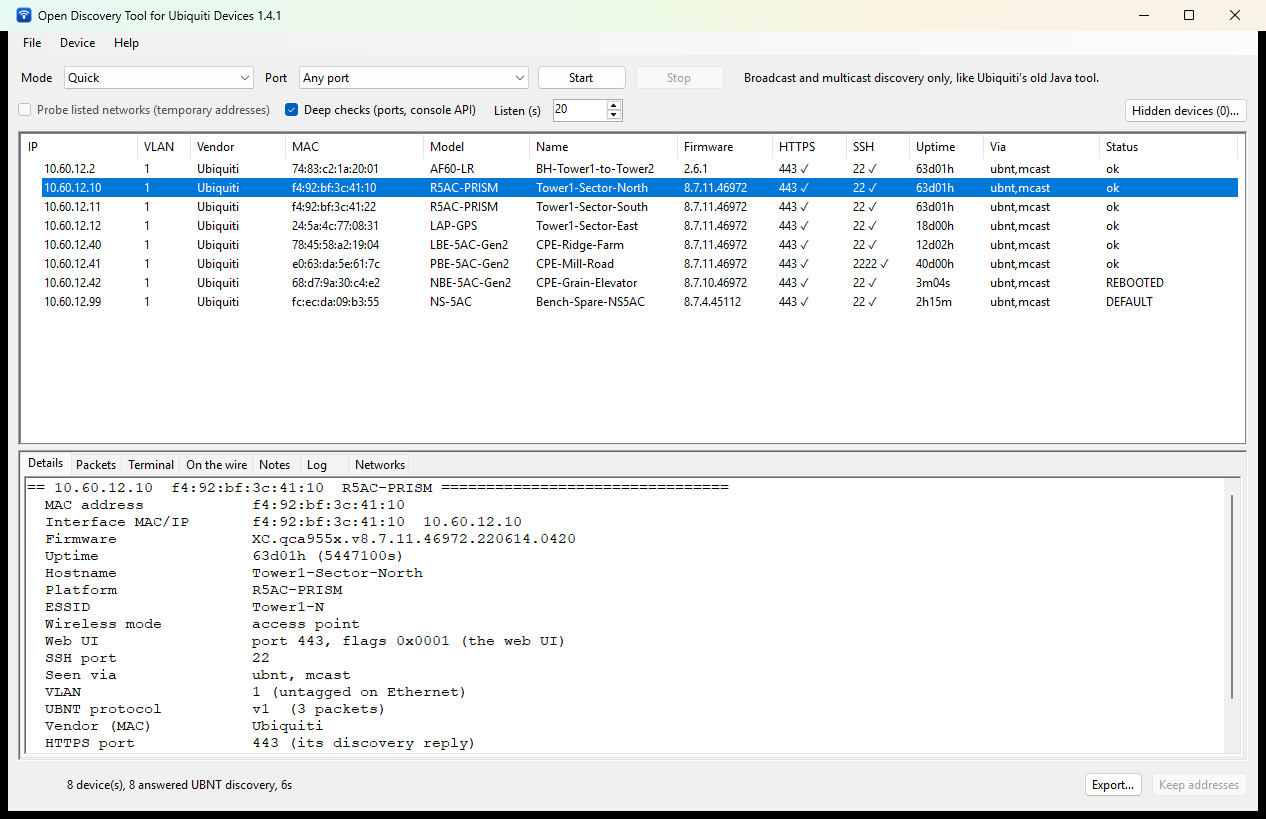
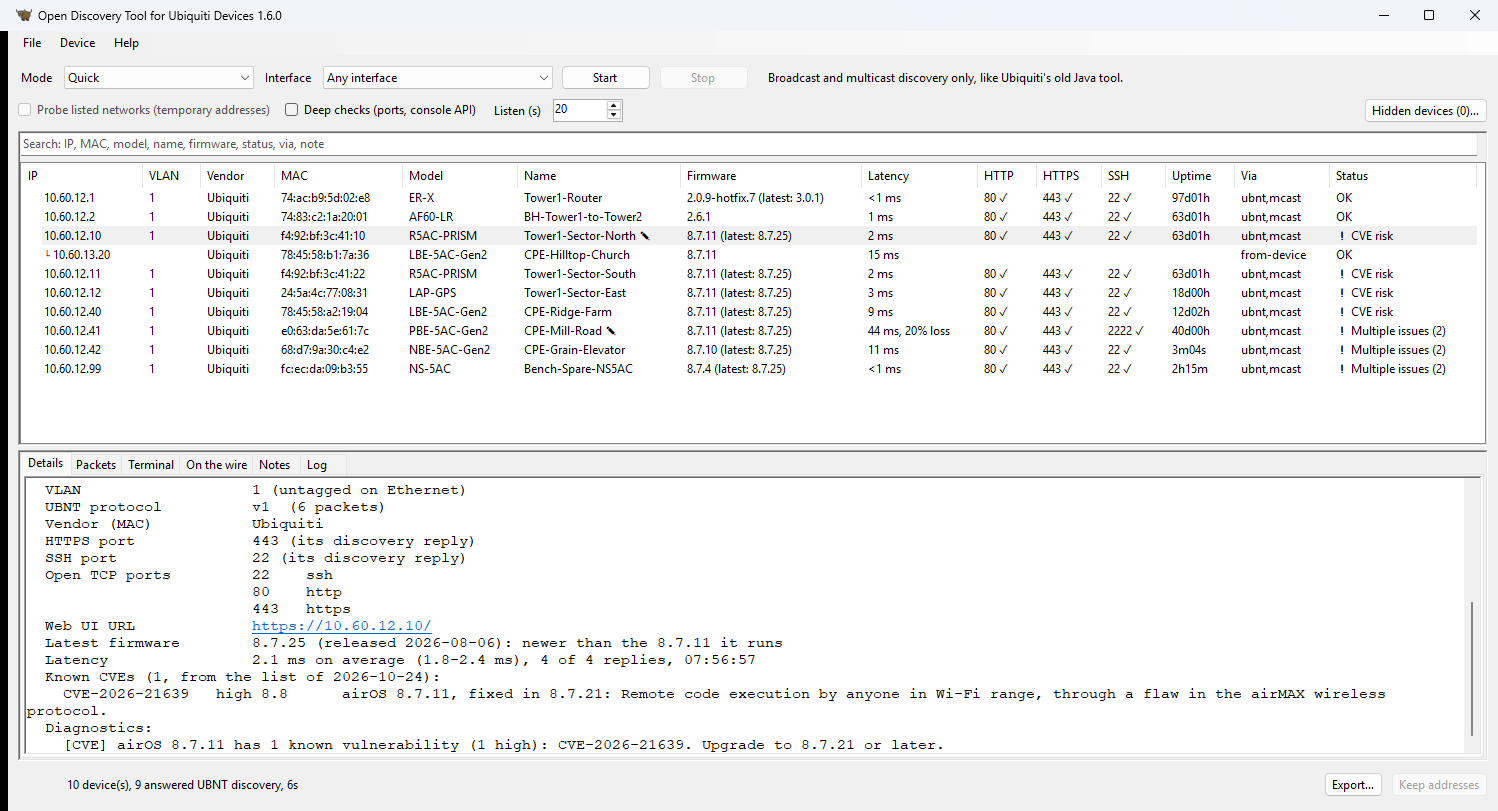
1.6.0: config backups and uploads, reboot, scan from an address, latest firmware and latency, search, notes, tablets
See CHANGELOG.md for the full list. README: the main window on macOS at the top, and a
Screenshots section for every platform (the right-click menu, search, config backups, Settings,
phones and tablets), all from the same made-up network (10.60.12.0/24); the 1.4.1 Windows picture
is replaced.

diff --git a/README.md b/README.md
@@ -4,10 +4,10 @@ One tool for finding and diagnosing Ubiquiti devices (UniFi, airMAX, EdgeMAX, UI
 and identifying other WISP gear. It combines the discovery methods of three Ubiquiti tools,
 merges what they find by MAC address, and checks each device for common problems.
 
-![OpenDisco 1.4.1 on Windows 11, listing eight sample radios](docs/images/windows-main.png)
+![OpenDisco 1.6.0 on macOS: ten devices with their firmware, latest release and latency, one radio's details below](docs/images/mac-main.png)
 
-*OpenDisco 1.4.1 on Windows 11. The eight radios are sample data with made-up names and
-addresses.*
+*OpenDisco 1.6.0 on macOS. The devices are sample data, a small WISP's tower with made-up
+names and addresses. More pictures under [Screenshots](#screenshots).*
 
 OpenDisco is an independent project. It isn't made, endorsed or supported by Ubiquiti Inc.
 Ubiquiti, UniFi, airMAX, EdgeMAX, UISP, AmpliFi and WiFiman are trademarks of Ubiquiti Inc.,
@@ -26,6 +26,75 @@ It comes two ways:
   with no public download yet.
 - **The command-line tool,** which needs only Python 3.8 or newer with no packages to
   install, and runs on macOS, Linux and Windows.
+
+## Screenshots
+
+Every picture shows OpenDisco 1.6.0 with the same sample data: made-up names and addresses.
+
+<table>
+<tr>
+<td width="50%"><img src="docs/images/mac-menu.png" alt="The right-click menu for one radio on macOS, listing the device tools"></td>
+<td width="50%"><img src="docs/images/windows-menu.png" alt="The same right-click menu on Windows 11"></td>
+</tr>
+<tr>
+<td>A device's right-click menu (macOS): its web UI, SSH, ping and latency, port finder,
+firmware, config backups and uploads, reboot, a note and its own export.</td>
+<td>The same menu on Windows 11.</td>
+</tr>
+<tr>
+<td><img src="docs/images/windows-main.png" alt="The main window on Windows 11"></td>
+<td><img src="docs/images/linux-main.png" alt="The main window on Ubuntu 24.04"></td>
+</tr>
+<tr>
+<td>Windows 11.</td>
+<td>Ubuntu 24.04.</td>
+</tr>
+<tr>
+<td><img src="docs/images/mac-search.png" alt="The device list searched for tower1, 5 of 10 devices shown"></td>
+<td><img src="docs/images/mac-backups.png" alt="Config backups for one radio: two copies, one of them shown"></td>
+</tr>
+<tr>
+<td>Search: "tower1" keeps 5 of the 10 devices.</td>
+<td>Config backups of one radio, kept by its MAC address, with Restore, Save a copy and Delete.</td>
+</tr>
+<tr>
+<td><img src="docs/images/mac-settings.png" alt="Settings: the checks made when opening and scanning, the subnets every scan sweeps, the networks list"></td>
+<td><img src="docs/images/linux-backups.png" alt="Config backups on Ubuntu 24.04"></td>
+</tr>
+<tr>
+<td>Settings: the update, CVE and firmware checks, the subnets every scan also sweeps, and the
+networks probed through temporary addresses.</td>
+<td>Config backups on Ubuntu 24.04.</td>
+</tr>
+</table>
+
+Phones and tablets ([On phones and tablets](#on-phones-and-tablets)):
+
+<table>
+<tr>
+<td><img src="docs/images/android-phone-list.png" width="200" alt="The device list on an Android phone"></td>
+<td><img src="docs/images/android-phone-tools.png" width="200" alt="A radio's Tools on an Android phone"></td>
+<td><img src="docs/images/iphone-list.png" width="200" alt="The device list on an iPhone"></td>
+<td><img src="docs/images/iphone-tools.png" width="200" alt="A radio's Tools on an iPhone"></td>
+</tr>
+<tr>
+<td>Android: the list, with each device's latency and newer firmware (↑).</td>
+<td>Android: a radio's Tools.</td>
+<td>iPhone (beta): the list.</td>
+<td>iPhone (beta): a radio's Tools.</td>
+</tr>
+</table>
+
+<table>
+<tr>
+<td width="50%"><img src="docs/images/android-tablet.png" alt="An Android tablet: the device list beside a radio's details"></td>
+<td width="50%"><img src="docs/images/ipad.png" alt="An iPad: the device list beside a radio's details"></td>
+</tr>
+<tr>
+<td>Android tablet: the list beside the radio's page.</td>
+<td>iPad (beta), the same.</td>
+</tr>
+</table>
 
 ## Versions and platforms
 
